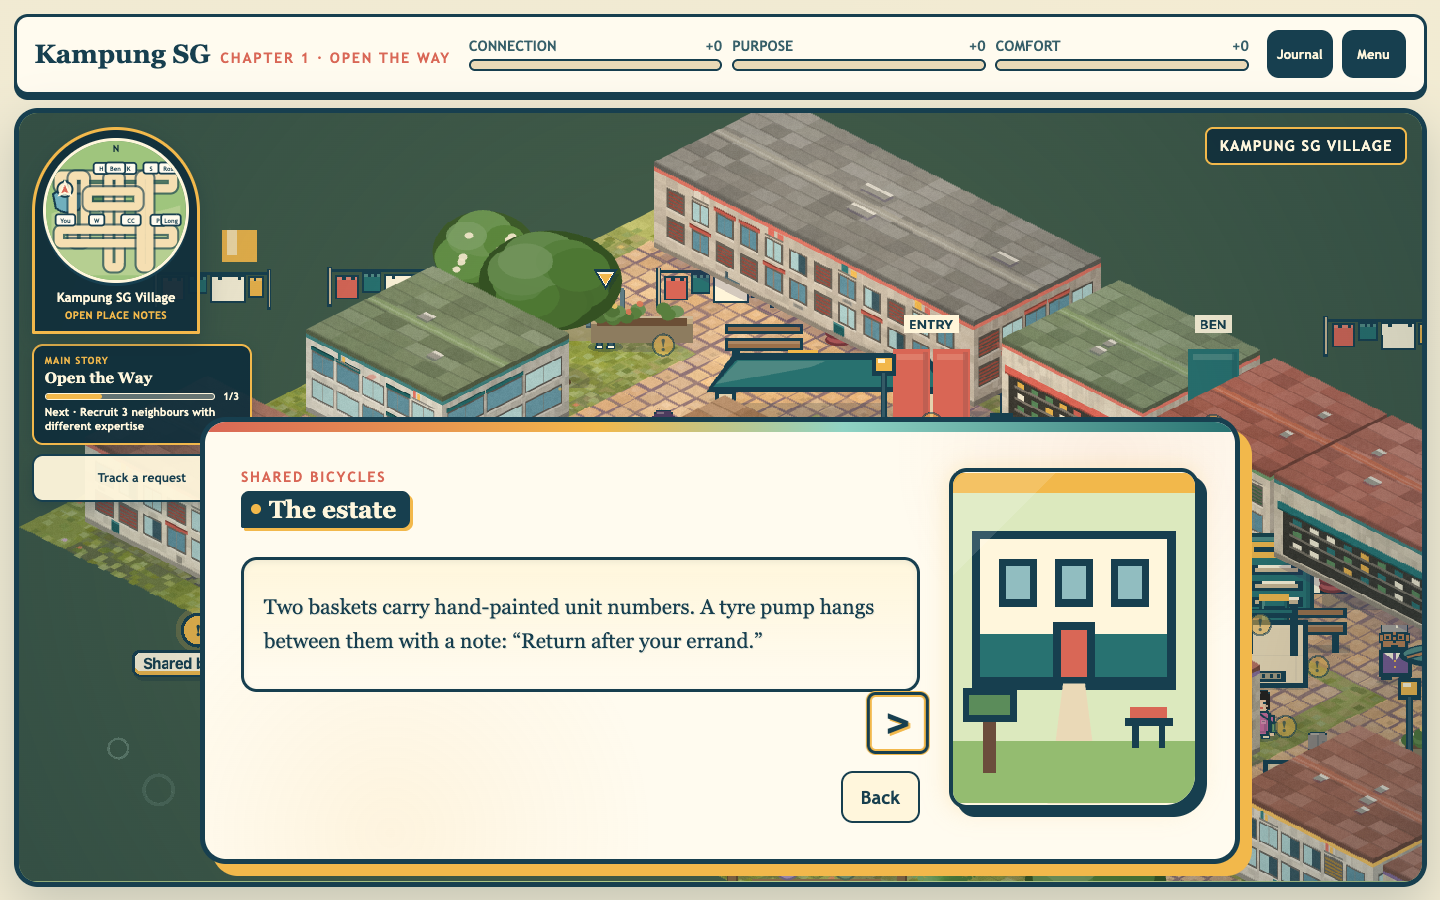
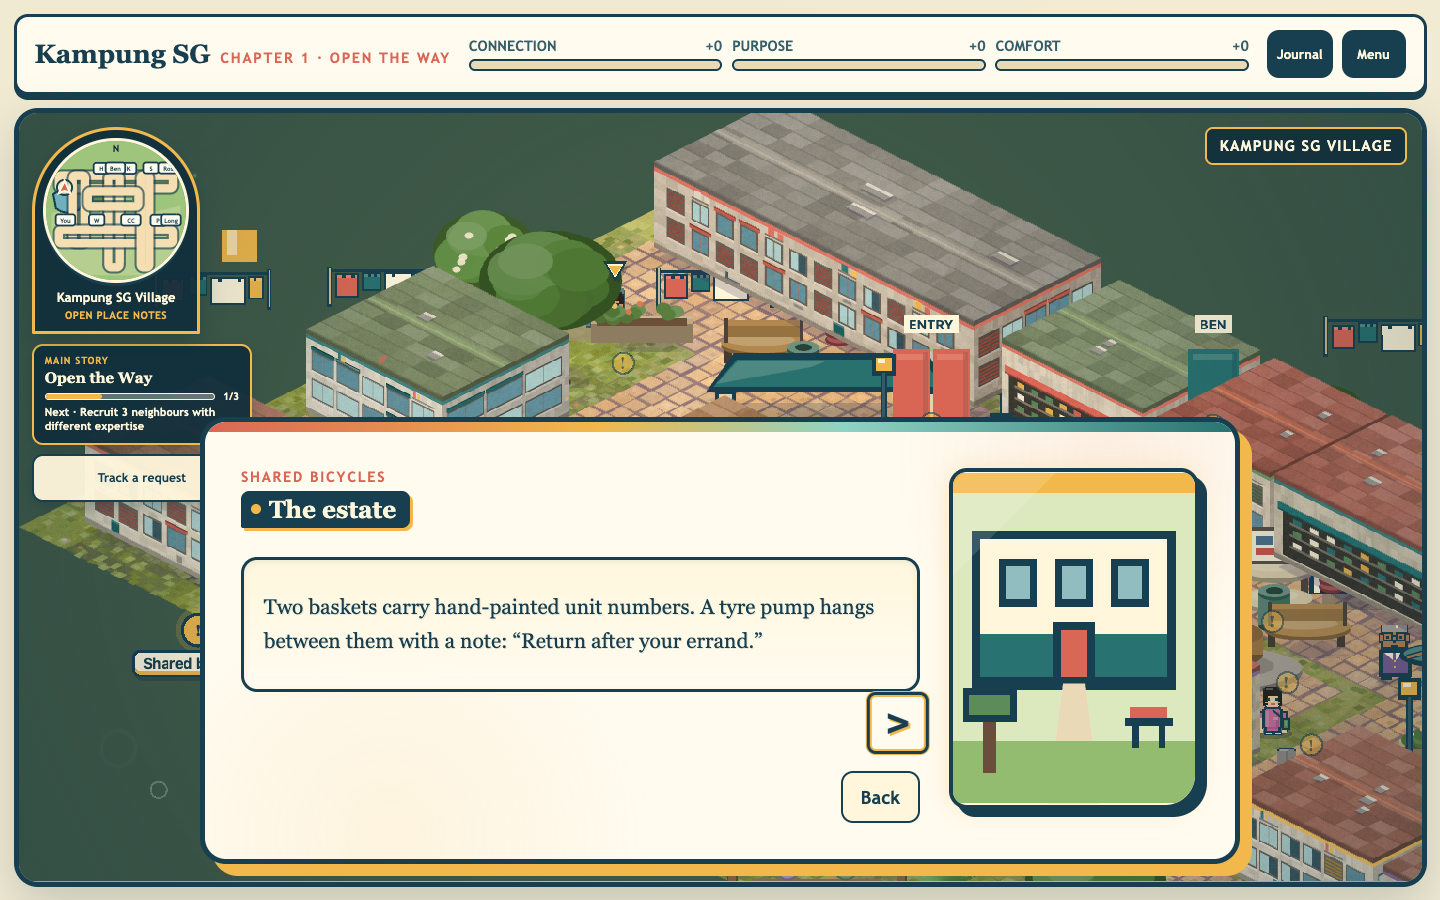
Draw the last eleven props in isometric
The district and street furniture were the only things left standing as
top-down billboards in the isometric village: a bench seen from above next to a
bench seen from an angle is worse than either on its own.

Bench, bin, planter, bike planters, tray return, market crates, utility
service, exercise corner, dragon playground, courtyard planter bed and service
courtyard bay all have isometric versions now, in the same idiom as the rest of
the file - contact shadow first, then volumes shaded from the upper left.

A few kept detail worth keeping rather than becoming grey boxes: the tray
return still carries its pictogram board, which is what makes it legible from
either side; the dragon's tiles are still patched in several shades, so the
repairs make a second pattern instead of hiding the first; the exercise
stations still face each other across a clear middle.

Every prop the estate places is now mapped - sixteen keys, none falling
through to the top-down texture.

Gate: typecheck clean, 172 unit tests, 72 browser checks, 0 vulnerabilities.

diff --git a/src/game/iso/isoProps.ts b/src/game/iso/isoProps.ts
@@ -477,9 +477,239 @@ const FURNITURE: readonly IsoPropSpec[] = [
   },
 ];
 
+/**
+ * The estate's remaining district and street furniture.
+ *
+ * These were the last props still standing as top-down billboards in the
+ * isometric village: a bench seen from above beside a bench seen from an
+ * angle is worse than either. Same idiom as the rest of this file - contact
+ * shadow first, then volumes shaded from the upper left.
+ */
+const DISTRICT: readonly IsoPropSpec[] = [
+  {
+    key: "iso-bench",
+    width: 120,
+    height: 78,
+    draw: (g) => {
+      contactShadow(g, 60, 72, 30);
+      const frame = 0x5f5348;
+      const slat = 0xb2894f;
+      for (const legX of [22, 96]) {
+        g.fillStyle(shade(frame, -0.3)).fillRect(legX - 4, 44, 8, 22);
+      }
+      // Seat as a shallow iso slab, then the backrest standing behind it.
+      g.fillStyle(shade(slat, -0.3)).fillEllipse(60, 48, 92, 22);
+      g.fillStyle(slat).fillEllipse(60, 44, 92, 22);
+      g.fillStyle(shade(slat, 0.2)).fillEllipse(56, 41, 74, 13);
+      g.fillStyle(shade(slat, -0.16)).fillRect(20, 20, 80, 18);
+      g.fillStyle(slat).fillRect(20, 20, 80, 6);
+      g.fillStyle(shade(frame, -0.2)).fillRect(18, 18, 4, 26).fillRect(98, 18, 4, 26);
+    },
+  },
+  {
+    key: "iso-bin",
+    width: 56,
+    height: 72,
+    draw: (g) => {
+      contactShadow(g, 28, 66, 17);
+      const body = 0x3f6f5c;
+      g.fillStyle(shade(body, -0.34)).fillEllipse(28, 60, 34, 15);
+      g.fillStyle(body).fillRect(11, 26, 34, 34);
+      g.fillStyle(shade(body, 0.14)).fillRect(11, 26, 11, 34);
+      g.fillStyle(shade(body, -0.22)).fillEllipse(28, 26, 34, 15);
+      g.fillStyle(shade(body, 0.24)).fillEllipse(28, 23, 34, 14);
+      g.fillStyle(shade(body, -0.4)).fillEllipse(28, 23, 18, 8);
+    },
+  },
+  {
+    key: "iso-planter",
+    width: 92,
+    height: 78,
+    draw: (g) => {
+      contactShadow(g, 46, 72, 26);
+      const pot = 0xb5714a;
+      g.fillStyle(shade(pot, -0.32)).fillEllipse(46, 64, 60, 24);
+      g.fillStyle(pot).fillRect(16, 42, 60, 22);
+      g.fillStyle(shade(pot, 0.16)).fillRect(16, 42, 18, 22);
+      g.fillStyle(shade(pot, -0.18)).fillEllipse(46, 42, 60, 22);
+      g.fillStyle(0x4a3a2a).fillEllipse(46, 41, 50, 17);
+      foliageMass(g, 46, 30, 46, 30, 0x4f7a35, 4);
+    },
+  },
+  {
+    key: "iso-bike-planters",
+    width: 210,
+    height: 104,
+    draw: (g) => {
+      contactShadow(g, 105, 96, 58);
+      const kerb = 0xa9a094;
+      g.fillStyle(shade(kerb, -0.3)).fillEllipse(105, 86, 176, 40);
+      g.fillStyle(kerb).fillEllipse(105, 82, 176, 40);
+      for (const [px, tone] of [[52, 0x4f7a35], [105, 0x5d8a3e], [158, 0x46702f]] as const) {
+        g.fillStyle(shade(0xb5714a, -0.28)).fillEllipse(px, 74, 44, 18);
+        g.fillStyle(0xb5714a).fillRect(px - 22, 58, 44, 16);
+        g.fillStyle(shade(0xb5714a, 0.16)).fillRect(px - 22, 58, 13, 16);
+        foliageMass(g, px, 46, 40, 26, tone, 3);
+      }
+    },
+  },
+  {
+    key: "iso-tray-return",
+    width: 104,
+    height: 122,
+    draw: (g) => {
+      contactShadow(g, 52, 114, 30);
+      const frame = 0x6e6156;
+      const shelf = 0xd8c9a6;
+      for (const legX of [22, 82]) {
+        g.fillStyle(shade(frame, -0.3)).fillRect(legX - 4, 62, 8, 46);
+      }
+      // Two shelf levels, the low one reachable from a chair.
+      for (const [shelfY, wide] of [[60, 78], [92, 78]] as const) {
+        g.fillStyle(shade(shelf, -0.3)).fillEllipse(52, shelfY + 5, wide, 22);
+        g.fillStyle(shelf).fillEllipse(52, shelfY, wide, 22);
+        g.fillStyle(shade(shelf, 0.18)).fillEllipse(48, shelfY - 3, wide * 0.7, 13);
+      }
+      // Pictogram board above, which is what makes it legible from either side.
+      g.fillStyle(shade(frame, -0.2)).fillRect(20, 16, 64, 40);
+      g.fillStyle(0xf2ead2).fillRect(24, 20, 56, 32);
+      g.fillStyle(0x4a6f8a).fillRect(30, 26, 18, 9).fillRect(54, 26, 18, 9);
+      g.fillStyle(0xc4544a).fillRect(30, 39, 42, 7);
+    },
+  },
+  {
+    key: "iso-market-crates",
+    width: 132,
+    height: 96,
+    draw: (g) => {
+      contactShadow(g, 66, 88, 36);
+      const crates: readonly [number, number, number][] = [
+        [34, 62, 0xb2894f],
+        [86, 66, 0x9c7440],
+        [60, 40, 0xc39a5c],
+      ];
+      for (const [cx, cy, tone] of crates) {
+        g.fillStyle(shade(tone, -0.32)).fillEllipse(cx, cy + 16, 50, 20);
+        g.fillStyle(tone).fillRect(cx - 25, cy - 4, 50, 20);
+        g.fillStyle(shade(tone, 0.18)).fillRect(cx - 25, cy - 4, 15, 20);
+        g.fillStyle(shade(tone, -0.16)).fillEllipse(cx, cy - 4, 50, 20);
+        g.fillStyle(shade(tone, -0.34)).fillEllipse(cx, cy - 5, 34, 12);
+        // Produce piled above the rim.
+        g.fillStyle(0xd9713f).fillEllipse(cx - 8, cy - 10, 13, 8);
+        g.fillStyle(0x6f9b3f).fillEllipse(cx + 7, cy - 12, 15, 9);
+      }
+    },
+  },
+  {
+    key: "iso-utility-service",
+    width: 158,
+    height: 116,
+    draw: (g) => {
+      contactShadow(g, 79, 108, 44);
+      const box = 0x8a9aa0;
+      g.fillStyle(shade(box, -0.34)).fillEllipse(79, 98, 108, 34);
+      g.fillStyle(box).fillRect(25, 46, 108, 52);
+      g.fillStyle(shade(box, 0.16)).fillRect(25, 46, 30, 52);
+      g.fillStyle(shade(box, -0.2)).fillEllipse(79, 46, 108, 34);
+      g.fillStyle(shade(box, 0.24)).fillEllipse(75, 42, 92, 26);
+      // Louvres and a warning plate, so it reads as plant rather than a crate.
+      for (let row = 0; row < 4; row += 1) {
+        g.fillStyle(shade(box, -0.3), 0.8).fillRect(36, 56 + row * 9, 60, 4);
+      }
+      g.fillStyle(0xf2b84b).fillRect(104, 58, 18, 14);
+      g.fillStyle(0x173f4f).fillRect(110, 62, 5, 7);
+    },
+  },
+  {
+    key: "iso-exercise-corner",
+    width: 200,
+    height: 138,
+    draw: (g) => {
+      contactShadow(g, 100, 128, 60);
+      const mat = 0x7a6a56;
+      g.fillStyle(shade(mat, -0.24)).fillEllipse(100, 116, 168, 52);
+      g.fillStyle(mat).fillEllipse(100, 112, 168, 52);
+      const steel = 0x9aa7ad;
+      // Two stations facing one another across a clear middle, as authored.
+      for (const [sx, sy] of [[46, 96], [154, 92]] as const) {
+        g.fillStyle(shade(steel, -0.32)).fillEllipse(sx, sy + 6, 34, 14);
+        g.fillStyle(shade(steel, -0.2)).fillRect(sx - 4, sy - 46, 8, 52);
+        g.fillStyle(steel).fillRect(sx - 2, sy - 46, 4, 52);
+        g.fillStyle(shade(steel, -0.16)).fillRect(sx - 24, sy - 50, 48, 7);
+        g.fillStyle(steel).fillRect(sx - 24, sy - 50, 48, 3);
+        g.fillStyle(0xc4544a).fillEllipse(sx - 24, sy - 46, 12, 7);
+        g.fillStyle(0xc4544a).fillEllipse(sx + 24, sy - 46, 12, 7);
+      }
+    },
+  },
+  {
+    key: "iso-dragon-playground",
+    width: 300,
+    height: 172,
+    draw: (g) => {
+      contactShadow(g, 150, 162, 88);
+      const sand = 0xdcc79a;
+      g.fillStyle(shade(sand, -0.24)).fillEllipse(150, 148, 264, 72);
+      g.fillStyle(sand).fillEllipse(150, 144, 264, 72);
+      // The mosaic dragon: a humped spine of patched tiles, head at the west.
+      const humps: readonly [number, number, number][] = [
+        [70, 112, 30], [110, 100, 27], [150, 94, 25], [190, 100, 23], [228, 110, 20],
+      ];
+      for (const [hx, hy, r] of humps) {
+        g.fillStyle(shade(0x3f7f86, -0.3)).fillEllipse(hx, hy + 6, r * 2, r);
+        g.fillStyle(0x3f7f86).fillEllipse(hx, hy, r * 2, r * 1.1);
+        g.fillStyle(shade(0x3f7f86, 0.2)).fillEllipse(hx - 4, hy - 4, r * 1.2, r * 0.55);
+        // Patched tiles in several shades - the repairs make a second pattern.
+        g.fillStyle(0xd9713f, 0.85).fillEllipse(hx - 7, hy - 2, 8, 5);
+        g.fillStyle(0xf2b84b, 0.8).fillEllipse(hx + 6, hy + 2, 7, 4);
+      }
+      g.fillStyle(shade(0x3f7f86, -0.16)).fillEllipse(44, 118, 48, 34);
+      g.fillStyle(0xf2ead2).fillEllipse(34, 112, 11, 8);
+      g.fillStyle(0x173f4f).fillEllipse(32, 112, 5, 5);
+      g.fillStyle(0xc4544a).fillEllipse(24, 122, 14, 6);
+    },
+  },
+  {
+    key: "iso-courtyard-planter-bed",
+    width: 400,
+    height: 128,
+    draw: (g) => {
+      contactShadow(g, 200, 118, 116);
+      const kerb = 0xbdb3a2;
+      g.fillStyle(shade(kerb, -0.3)).fillEllipse(200, 104, 356, 58);
+      g.fillStyle(kerb).fillEllipse(200, 98, 356, 58);
+      g.fillStyle(0x4a3a2a).fillEllipse(200, 94, 322, 46);
+      for (let index = 0; index < 7; index += 1) {
+        const px = 56 + index * 48;
+        foliageMass(g, px, 74 - (index % 2) * 6, 58, 34, index % 2 ? 0x4f7a35 : 0x5d8a3e, 4);
+      }
+    },
+  },
+  {
+    key: "iso-service-courtyard-bay",
+    width: 350,
+    height: 128,
+    draw: (g) => {
+      contactShadow(g, 175, 118, 100);
+      const apron = 0xa9a094;
+      g.fillStyle(shade(apron, -0.3)).fillEllipse(175, 104, 310, 56);
+      g.fillStyle(apron).fillEllipse(175, 98, 310, 56);
+      // Bay markings and a low stacked pallet, so the yard reads as in use.
+      g.fillStyle(shade(apron, -0.22), 0.7).fillEllipse(175, 96, 250, 40);
+      for (const px of [96, 175, 254]) {
+        g.fillStyle(0xf2b84b, 0.55).fillEllipse(px, 96, 12, 30);
+      }
+      g.fillStyle(shade(0x9c7440, -0.3)).fillEllipse(250, 84, 76, 26);
+      g.fillStyle(0x9c7440).fillRect(212, 62, 76, 22);
+      g.fillStyle(shade(0x9c7440, 0.18)).fillRect(212, 62, 22, 22);
+      g.fillStyle(shade(0x9c7440, -0.14)).fillEllipse(250, 62, 76, 26);
+    },
+  },
+];
+
 /** Registers every isometric prop texture. Idempotent, like `makeTexture`. */
 export function ensureIsoPropTextures(scene: Phaser.Scene): void {
-  for (const spec of [...ISO_PROPS, ...FURNITURE]) {
+  for (const spec of [...ISO_PROPS, ...FURNITURE, ...DISTRICT]) {
     if (scene.textures.exists(spec.key)) continue;
     const graphics = scene.make.graphics({ x: 0, y: 0 });
     spec.draw(graphics);
@@ -515,6 +745,28 @@ export function isoTextureFor(shippedKey: string): string {
       return "iso-shaded-seating";
     case "prop-maintenance-trolley":
       return "iso-cleaning-cart";
+    case "prop-bench":
+      return "iso-bench";
+    case "prop-bin":
+      return "iso-bin";
+    case "prop-planter":
+      return "iso-planter";
+    case "prop-bike-planters":
+      return "iso-bike-planters";
+    case "prop-tray-return":
+      return "iso-tray-return";
+    case "prop-market-crates":
+      return "iso-market-crates";
+    case "prop-utility-service":
+      return "iso-utility-service";
+    case "prop-exercise-corner":
+      return "iso-exercise-corner";
+    case "prop-dragon-playground":
+      return "iso-dragon-playground";
+    case "prop-courtyard-planter-bed":
+      return "iso-courtyard-planter-bed";
+    case "prop-service-courtyard-bay":
+      return "iso-service-courtyard-bay";
     default:
       return shippedKey;
   }
